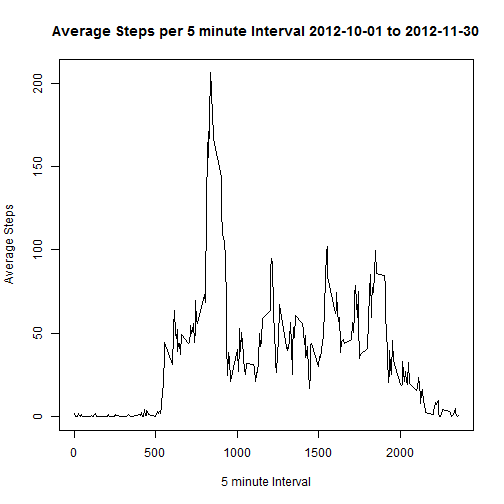
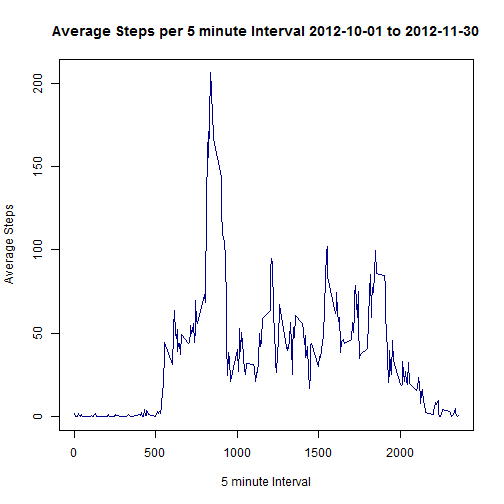
v0.2 commit

diff --git a/PA1_template.html b/PA1_template.html
@@ -3,7 +3,7 @@
 <head>
 <meta http-equiv="Content-Type" content="text/html; charset=utf-8"/>
 
-<title>Loading and preprocessing the data</title>
+<title>Context</title>
 
 <script type="text/javascript">
 window.onload = function() {
@@ -201,13 +201,33 @@ hr {
 </head>
 
 <body>
+<h2>Context</h2>
+
+<p>The document is Peer Assessment 1 for the Johns Hopkins University Cousera Programme - Reproducible Research.</p>
+
+<p>It uses data downloaded from the course web site:</p>
+
+<ul>
+<li>Dataset: <a href="https://d396qusza40orc.cloudfront.net/repdata%2Fdata%2Factivity.zip">Activity monitoring data</a> [52K]</li>
+</ul>
+
+<p>For this assessment the data was downloaded from the above website on Jun 3 2015.</p>
+
+<p>The SHA-1 hash for the downloaded zip file was:
+02eb450a51703750115ccb63efada91b2ec49bb0</p>
+
+<p>The following steps was carried on the extract data file &ldquo;activity.csv&rdquo;</p>
+
 <h2>Loading and preprocessing the data</h2>
 
-<p>Load the data and convert it to a data table. </p>
+<p>For the purposes of simplification, it is assumed that persons reproducing this work have the ability to download the file and store it in an appropriate location on their system.</p>
+
+<p>Load the data and convert it to a seperate data table. The step of saving in the data in a new frame is not required but enables the data to be manipulate with having to re read the data in.  Given the data set is not huge memory should not be an issue.</p>
 
 <pre><code class="r">library(data.table)
 
-raw_data = read.csv(&quot;./activity/activity.csv&quot;, header = TRUE, stringsAsFactors = FALSE)
+raw_data = read.table(&quot;./activity/activity.csv&quot;, header = TRUE, sep=&quot;,&quot;, 
+                   colClasses=c(&#39;integer&#39;,&#39;Date&#39;,&#39;integer&#39;))
 
 #convert to data table
 data_dt = as.data.table(raw_data)
@@ -217,9 +237,8 @@ setkey(data_dt, date)
 <h2>What is mean total number of steps taken per day?</h2>
 
 <p>Step 1: Make a histogram of the total number of steps per day
-Note that NA values have been left in.  Values have not been set to zero
-as this would skew the histogram i.e. we have no idea on what the total number
-of steps taken on these days.</p>
+Note that NA values have been left in and no changes have been made to their value, 
+as we have no idea on what the total number of steps taken on these days.</p>
 
 <pre><code class="r"># extract daily totals
 data_dt_days = data_dt[,lapply(.SD,sum), by = date, .SD=&quot;steps&quot;]
@@ -227,11 +246,14 @@ setnames(data_dt_days,2,&quot;steps&quot;)
 
 #Plot histogram with 20 intervals
 hist(data_dt_days$steps,20, 
-     main=&quot;Histogram of Total Number of Steps per day&quot;, xlab =&quot;Steps&quot;,
+     main=paste0(&quot;Histogram of Total Number of Steps per day &quot;,data_dt$date[1],
+                 &quot; to &quot;, data_dt$date[17568]), 
+     col=&quot;Light Blue&quot;,
+     xlab =&quot;Steps&quot;,
      xlim = c(0,25000), ylim = c(0,12))
 </code></pre>
 
[2 lines of base64/hex data omitted]
 
 <p>Step 2: Calculate and report the mean and median total number of steps taken per day</p>
 
@@ -251,6 +273,8 @@ data_dt_days[,median(steps,na.rm = TRUE),]
 <pre><code>## [1] 10765
 </code></pre>
 
+<p>The mean and median number of steps are close and note days where no data has been recorded have not been included.</p>
+
 <h2>What is the average daily activity pattern?</h2>
 
 <p>Step 1 Make a time series plot of the 5-minute interval and the average number of steps taken, averaged across all days</p>
@@ -262,16 +286,16 @@ data_dt_intervals = tapply(data_dt$steps,as.factor(data_dt$interval),mean,na.rm=
 plot(rownames(data_dt_intervals),data_dt_intervals,type=&#39;l&#39;,
      main=paste0(&quot;Average Steps per 5 minute Interval &quot;,data_dt$date[1],&quot; to &quot;,
                  data_dt$date[17568]),
+     col= &quot;Dark Blue&quot;,
      xlab=&quot;5 minute Interval&quot;,
      ylab=&quot;Average Steps&quot;)
 </code></pre>
 
[2 lines of base64/hex data omitted]
 
 <p>Step 2. Which 5-minute interval, on average across all the days in the dataset, contains the maximum number of steps?</p>
 
 <pre><code class="r">#return which period has the maximum mean value
-
 data_dt_intervals[which(data_dt_intervals==(max(data_dt_intervals)))]
 </code></pre>
 
@@ -301,6 +325,8 @@ data_dt[is.na(steps)]
 ## 2304:    NA 2012-11-30     2355
 </code></pre>
 
+<p>It is noted that given the total number of 5 minute periods in any one day is (24*60)/5 = 288 periods and from above there are 2304 intervals, the number of days with no data is 2304/288 = 8 days (exactly) and the dates of these are given below:</p>
+
 <pre><code class="r"># Show days that have NA
 data_dt_days[is.na(steps)]
 </code></pre>
@@ -318,7 +344,7 @@ data_dt_days[is.na(steps)]
 
 <p>Step 2 &amp; 3. Devise a strategy for filling in all of the missing values in the dataset.
 The method used was to replace the NA value with the average value of the 5 minute 
-interval accross all days.</p>
+interval accross all days for the interval in question.</p>
 
 <pre><code class="r"># replace the NA in data set with average values for 5 minute intervals
 data_dt_nas = data_dt
@@ -338,11 +364,14 @@ and report the mean and median total number of steps taken per day.</p>
 
 data_dt_nas_days = data_dt_nas[,lapply(.SD,sum), by = date, .SD=&quot;steps&quot;]
 hist(data_dt_nas_days$steps,20, 
-     main=&quot;Histogram of Total Number of Steps per day&quot;, xlab =&quot;Steps&quot;,
+     main=paste0(&quot;Histogram of Total Number of Steps per day &quot;,data_dt$date[1],
+                 &quot; to &quot;, data_dt$date[17568]),
+     col=&quot;Light Blue&quot;,
+     xlab =&quot;Steps&quot;,
      xlim = c(0,25000), ylim = c(0,20))
 </code></pre>
 
[2 lines of base64/hex data omitted]
 
 <pre><code class="r"># Calculate mean 
 data_dt_nas_days[,mean(steps),]
@@ -358,7 +387,9 @@ data_dt_nas_days[,median(steps),]
 <pre><code>## [1] 10766.19
 </code></pre>
 
-<p>These values differ from the set that includes &ldquo;NA&rdquo; as noted below.</p>
+<p>It is noted that the median and mean values are now equal and that the median value is no longer an integer as the average values inserted in the above process were not rounded in any way.</p>
+
+<p>These values differ from the values calculated above by.</p>
 
 <pre><code class="r"># Delta to original set
 data_dt_days[,mean(steps,na.rm = TRUE),]-data_dt_nas_days[,mean(steps),]
@@ -381,8 +412,6 @@ sum(data_dt_nas_days$steps)-sum(na.omit(data_dt_days$steps))
 
 <pre><code>## [1] 86129.51
 </code></pre>
-
-<p>It is also noted that the mean and median have the same value</p>
 
 <h2>Are there differences in activity patterns between weekdays and weekends?</h2>
 
@@ -412,9 +441,10 @@ g + geom_line(stat=&quot;identity&quot;) + facet_grid(day_col_week~.) +
         theme(axis.text.x = element_text(angle = 90, vjust=0.5)) # add the elements
 </code></pre>
 
[2 lines of base64/hex data omitted]
 
-<p>From the graphs we can see that the person starts walking later on the weekend and not as far in the morning.</p>
+<p>From the graphs we can see that the person starts walking earlier on a weekday.  Perhaps this indicates a person working to work or transport to work, perhaps they walk a pet on the weekdays but not on the weekend - we can&#39;t tell from just this data.
+It also seems that on weekends during the period 10 am to 7:30 pm the average number of steps is around 75 steps per period compared with around 50 steps per period for the same time during the week.</p>
 
 </body>
 

diff --git a/PA1_template.md b/PA1_template.md
@@ -1,20 +1,37 @@
 ---
 title: "Reproducible Research: Peer Assessment 1"
+author: Philip Canalese
+revision: 0.2 - 5 June 2015
 output: 
   html_document:
     keep_md: true
 ---
+## Context
 
+The document is Peer Assessment 1 for the Johns Hopkins University Cousera Programme - Reproducible Research.
+
+It uses data downloaded from the course web site:
+
+* Dataset: [Activity monitoring data](https://d396qusza40orc.cloudfront.net/repdata%2Fdata%2Factivity.zip) [52K]
+
+For this assessment the data was downloaded from the above website on Jun 3 2015.
+
+The SHA-1 hash for the downloaded zip file was:
+02eb450a51703750115ccb63efada91b2ec49bb0
+
+The following steps was carried on the extract data file "activity.csv"
 
 ## Loading and preprocessing the data
+For the purposes of simplification, it is assumed that persons reproducing this work have the ability to download the file and store it in an appropriate location on their system.
 
-Load the data and convert it to a data table. 
+Load the data and convert it to a seperate data table. The step of saving in the data in a new frame is not required but enables the data to be manipulate with having to re read the data in.  Given the data set is not huge memory should not be an issue.
 
 
 ```r
 library(data.table)
 
-raw_data = read.csv("./activity/activity.csv", header = TRUE, stringsAsFactors = FALSE)
+raw_data = read.table("./activity/activity.csv", header = TRUE, sep=",", 
+                   colClasses=c('integer','Date','integer'))
 
 #convert to data table
 data_dt = as.data.table(raw_data)
@@ -26,9 +43,8 @@ setkey(data_dt, date)
 ## What is mean total number of steps taken per day?
 
 Step 1: Make a histogram of the total number of steps per day
-Note that NA values have been left in.  Values have not been set to zero
-as this would skew the histogram i.e. we have no idea on what the total number
-of steps taken on these days.
+Note that NA values have been left in and no changes have been made to their value, 
+as we have no idea on what the total number of steps taken on these days.
 
 
 ```r
@@ -38,7 +54,10 @@ setnames(data_dt_days,2,"steps")
 
 #Plot histogram with 20 intervals
 hist(data_dt_days$steps,20, 
-     main="Histogram of Total Number of Steps per day", xlab ="Steps",
+     main=paste0("Histogram of Total Number of Steps per day ",data_dt$date[1],
+                 " to ", data_dt$date[17568]), 
+     col="Light Blue",
+     xlab ="Steps",
      xlim = c(0,25000), ylim = c(0,12))
 ```
 
@@ -68,7 +87,7 @@ data_dt_days[,median(steps,na.rm = TRUE),]
 ## [1] 10765
 ```
 
-
+The mean and median number of steps are close and note days where no data has been recorded have not been included.
 
 ## What is the average daily activity pattern?
 
@@ -83,6 +102,7 @@ data_dt_intervals = tapply(data_dt$steps,as.factor(data_dt$interval),mean,na.rm=
 plot(rownames(data_dt_intervals),data_dt_intervals,type='l',
      main=paste0("Average Steps per 5 minute Interval ",data_dt$date[1]," to ",
                  data_dt$date[17568]),
+     col= "Dark Blue",
      xlab="5 minute Interval",
      ylab="Average Steps")
 ```
@@ -94,7 +114,6 @@ Step 2. Which 5-minute interval, on average across all the days in the dataset, 
 
 ```r
 #return which period has the maximum mean value
-
 data_dt_intervals[which(data_dt_intervals==(max(data_dt_intervals)))]
 ```
 
@@ -130,6 +149,9 @@ data_dt[is.na(steps)]
 ## 2304:    NA 2012-11-30     2355
 ```
 
+It is noted that given the total number of 5 minute periods in any one day is (24*60)/5 = 288 periods and from above there are 2304 intervals, the number of days with no data is 2304/288 = 8 days (exactly) and the dates of these are given below:
+
+
 ```r
 # Show days that have NA
 data_dt_days[is.na(steps)]
@@ -147,9 +169,10 @@ data_dt_days[is.na(steps)]
 ## 8: 2012-11-30    NA
 ```
 
+
 Step 2 & 3. Devise a strategy for filling in all of the missing values in the dataset.
 The method used was to replace the NA value with the average value of the 5 minute 
-interval accross all days.
+interval accross all days for the interval in question.
 
 
 ```r
@@ -173,11 +196,14 @@ and report the mean and median total number of steps taken per day.
 
 data_dt_nas_days = data_dt_nas[,lapply(.SD,sum), by = date, .SD="steps"]
 hist(data_dt_nas_days$steps,20, 
-     main="Histogram of Total Number of Steps per day", xlab ="Steps",
+     main=paste0("Histogram of Total Number of Steps per day ",data_dt$date[1],
+                 " to ", data_dt$date[17568]),
+     col="Light Blue",
+     xlab ="Steps",
      xlim = c(0,25000), ylim = c(0,20))
 ```
 
-![plot of chunk unnamed-chunk-8](figure/unnamed-chunk-8-1.png) 
+![plot of chunk unnamed-chunk-9](figure/unnamed-chunk-9-1.png) 
 
 ```r
 # Calculate mean 
@@ -196,8 +222,9 @@ data_dt_nas_days[,median(steps),]
 ```
 ## [1] 10766.19
 ```
+It is noted that the median and mean values are now equal and that the median value is no longer an integer as the average values inserted in the above process were not rounded in any way.
 
-These values differ from the set that includes "NA" as noted below.
+These values differ from the values calculated above by.
 
 
 ```r
@@ -228,7 +255,7 @@ sum(data_dt_nas_days$steps)-sum(na.omit(data_dt_days$steps))
 ## [1] 86129.51
 ```
 
-It is also noted that the mean and median have the same value
+
 
 ## Are there differences in activity patterns between weekdays and weekends?
 
@@ -262,6 +289,7 @@ g + geom_line(stat="identity") + facet_grid(day_col_week~.) +
         theme(axis.text.x = element_text(angle = 90, vjust=0.5)) # add the elements
 ```
 
-![plot of chunk unnamed-chunk-12](figure/unnamed-chunk-12-1.png) 
+![plot of chunk unnamed-chunk-13](figure/unnamed-chunk-13-1.png) 
 
-From the graphs we can see that the person starts walking later on the weekend and not as far in the morning.
+From the graphs we can see that the person starts walking earlier on a weekday.  Perhaps this indicates a person working to work or transport to work, perhaps they walk a pet on the weekdays but not on the weekend - we can't tell from just this data.
+It also seems that on weekends during the period 10 am to 7:30 pm the average number of steps is around 75 steps per period compared with around 50 steps per period for the same time during the week.
